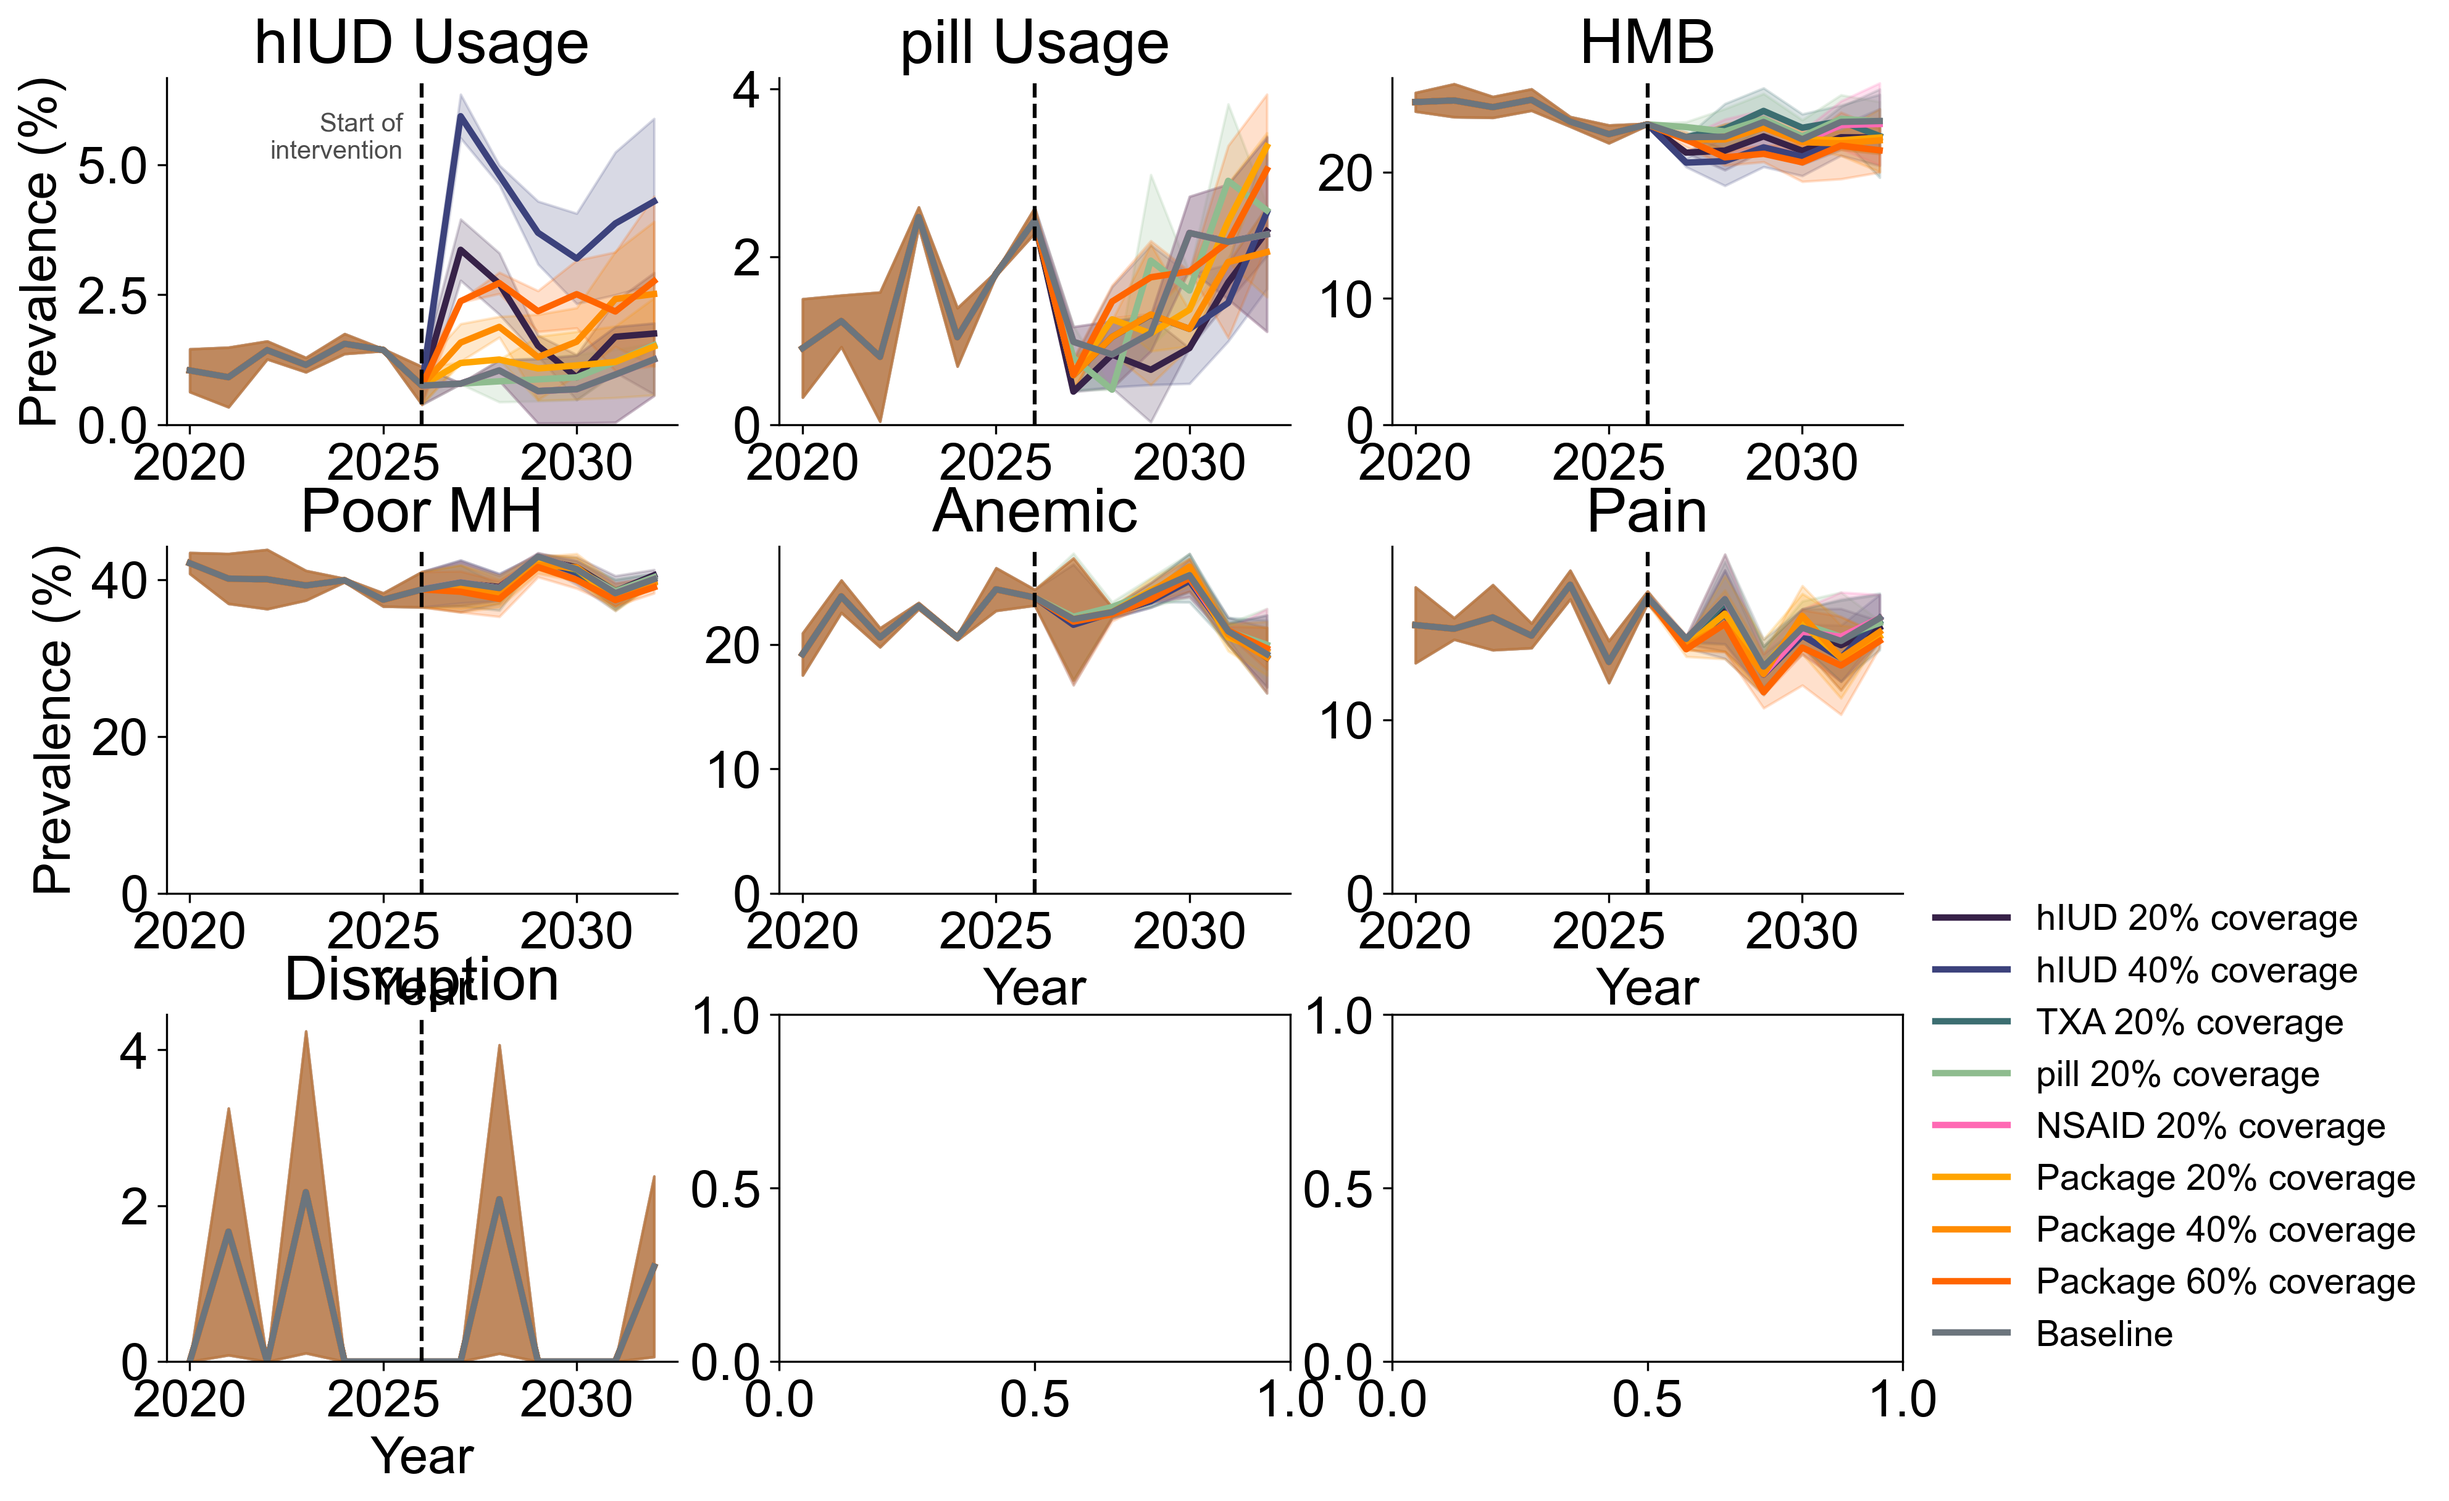
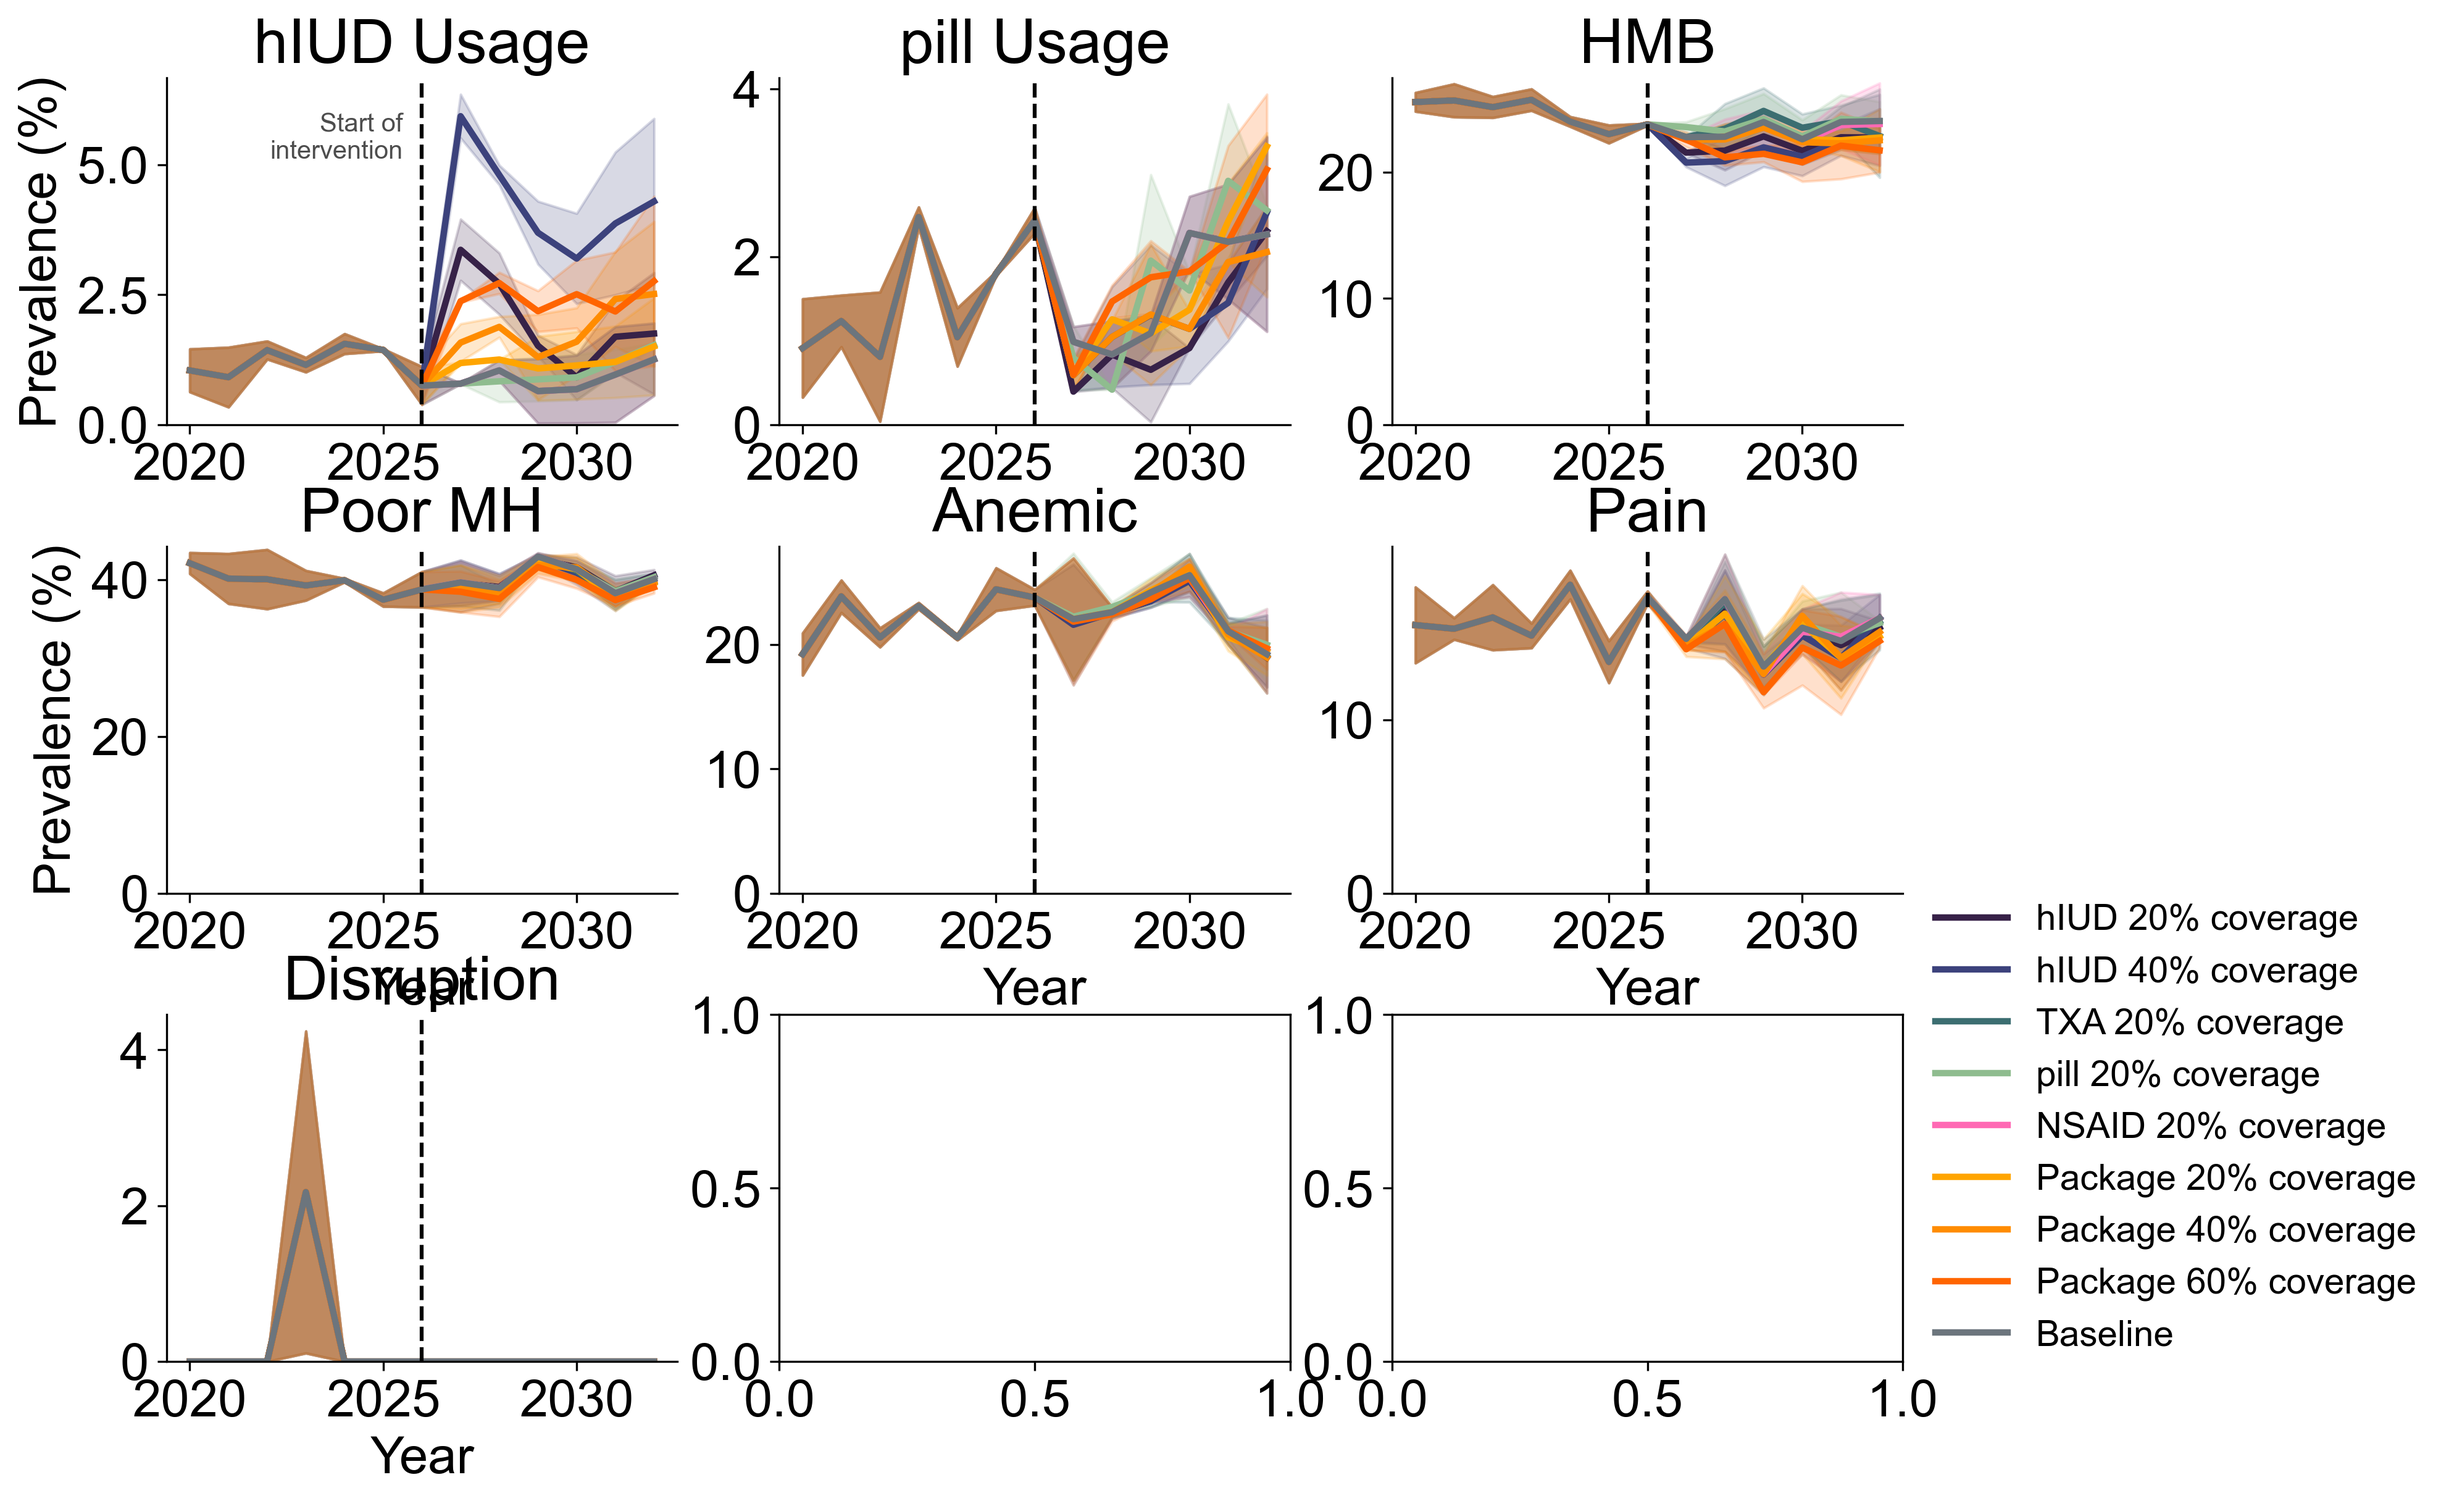
map the difference from baseline and plot # of disruptions averted

Changed region(s): [[0.062, 0.7713, 0.124, 0.9255], [0.186, 0.7096, 0.217, 0.9255], [0.248, 0.8021, 0.2791, 0.9255]]

diff --git a/run_kenya_nsaid_added.py b/run_kenya_nsaid_added.py
@@ -325,15 +325,32 @@ def plot_parameter_sweep_heatmaps_seaborn(all_results, baseline_key='baseline',
                 
                 if scenario_name in all_results:
                     scenario_mean = all_results[scenario_name][res]['mean']
-                    scenario_post_avg = np.mean(scenario_mean[intervention_idx:])
                     
-                    if baseline_post_avg[res] != 0:
-                        pct_change = ((scenario_post_avg - baseline_post_avg[res]) / 
-                                      baseline_post_avg[res]) * 100
+                    if res == "n_disruptions":
+                        # Post-intervention total disruptions (end - value at intervention start)
+                        baseline_series = all_results[baseline_key][res]['mean']
+                        baseline_post_total = baseline_series[-1] - baseline_series[intervention_idx]
+
+                        scenario_post_total = scenario_mean[-1] - scenario_mean[intervention_idx]
+
+                        # Averted = baseline - scenario (positive means fewer disruptions)
+                        val = baseline_post_total - scenario_post_total
+
                     else:
-                        pct_change = 0
+                        # Your existing post-intervention average approach
+                        scenario_post_avg = np.mean(scenario_mean[intervention_idx:])
+                        base = baseline_post_avg[res]
+
+                        if res == "prop_disrupted":
+                            # absolute change in percentage points
+                            val = (scenario_post_avg - base) * 100.0
+                        else:
+                            # percent change from baseline
+                            val = 0.0 if base == 0 else ((scenario_post_avg - base) / base) * 100.0
+
+                matrix[j, i] = val
+
                     
-                    matrix[j, i] = pct_change  # Note: j,i for correct orientation
         
         change_matrices[res] = matrix
     
@@ -677,7 +694,7 @@ if __name__ == '__main__':
         n_seeds = 2
         prob_offer_values = [0.25, 0.5, 0.75]
         prob_accept_values = [0.25, 0.5, 0.75]
-        res_keys = ['hiud', 'pill', 'hmb', 'poor_mh', 'anemic', 'pain', 'prop_disrupted']
+        res_keys = ['hiud', 'pill', 'hmb', 'poor_mh', 'anemic', 'pain', 'prop_disrupted', 'n_disruptions']
         
         def compute_and_save_scenario(scenario_name, sim_list):
             """Run sims, compute stats, save, and free memory."""
@@ -687,7 +704,7 @@ if __name__ == '__main__':
             scenario_results = {res: [] for res in res_keys}
             for sim in msim.sims:
                 for res in res_keys:
-                    if res == 'prop_disrupted':
+                    if res in ['prop_disrupted', 'n_disruptions']:
                         scenario_results[res].append(sim.results.edu[res][::12])
                     else:
                         scenario_results[res].append(sim.results.menstruation[f'{res}_prev'][::12])                    
